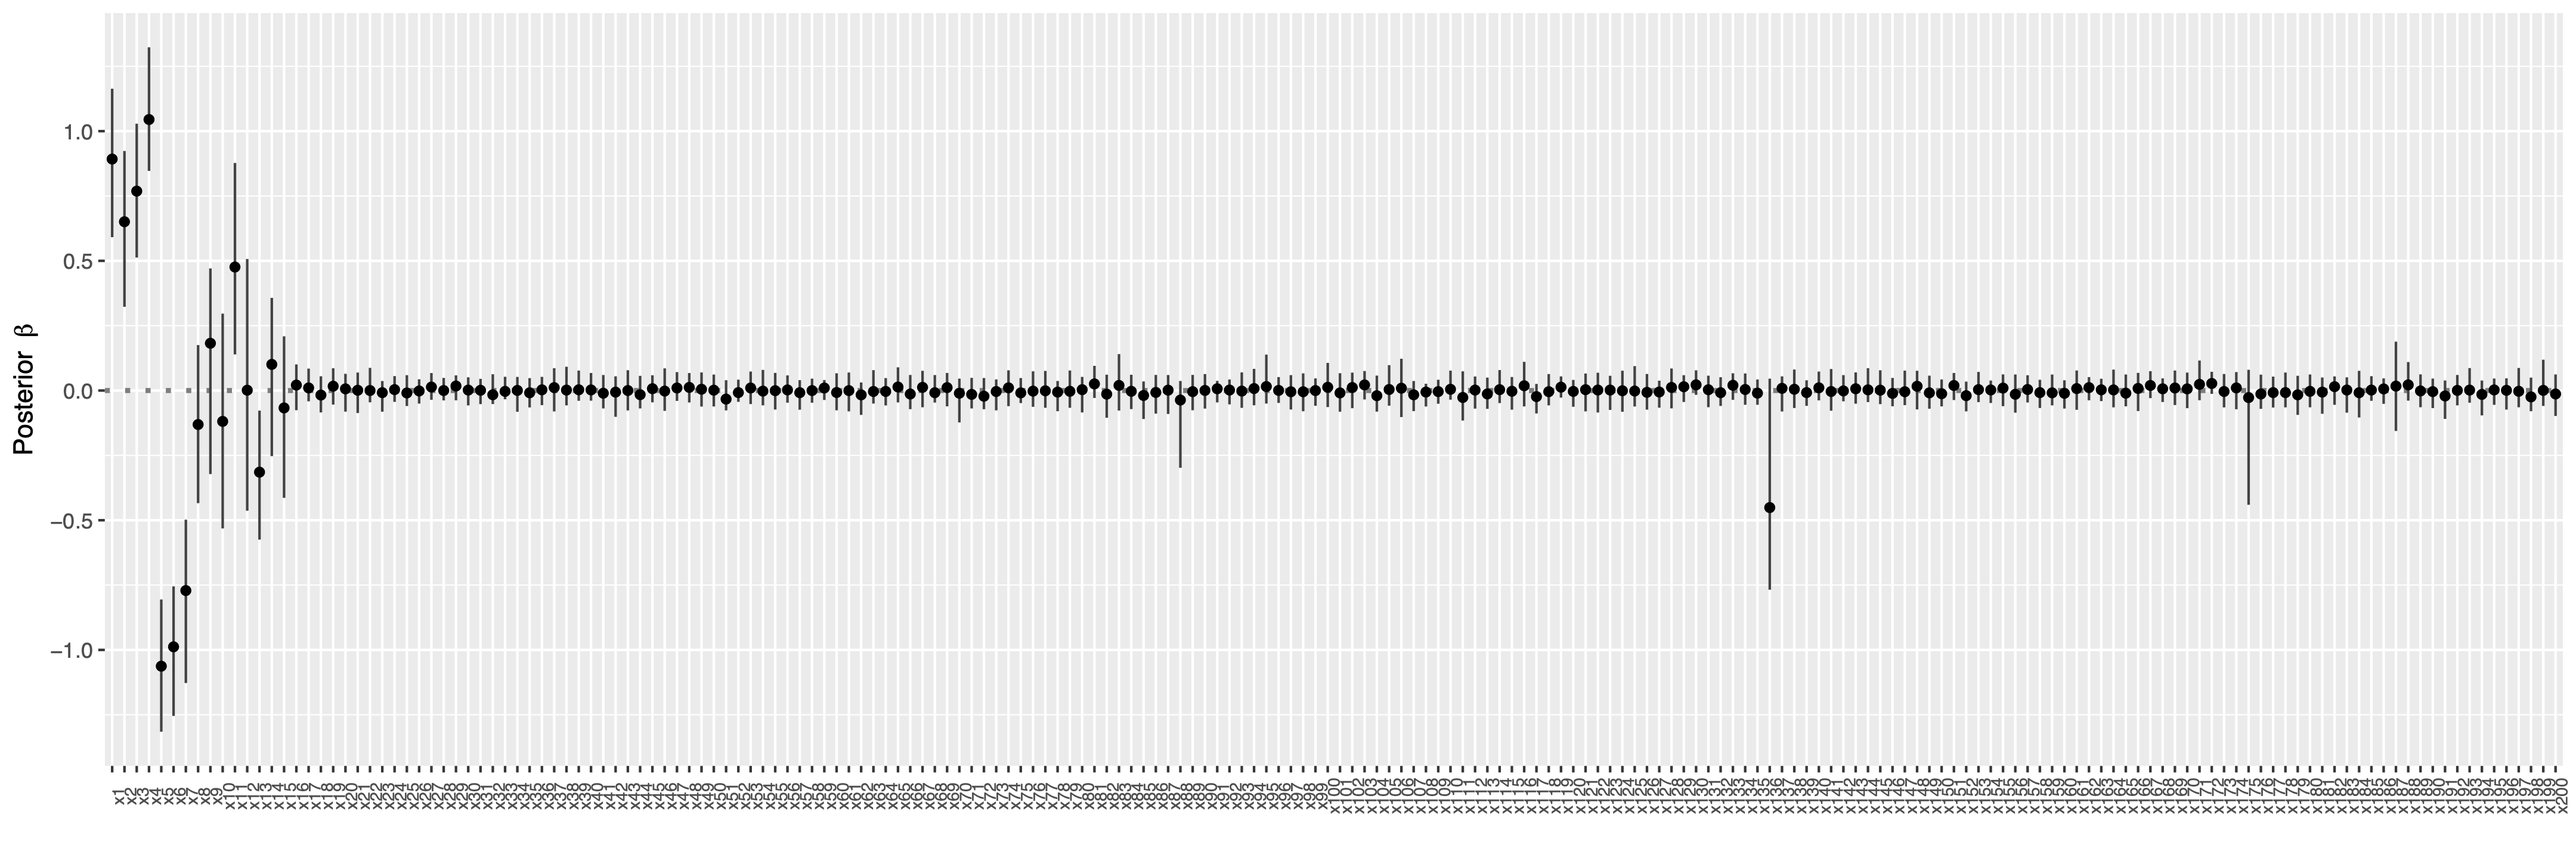
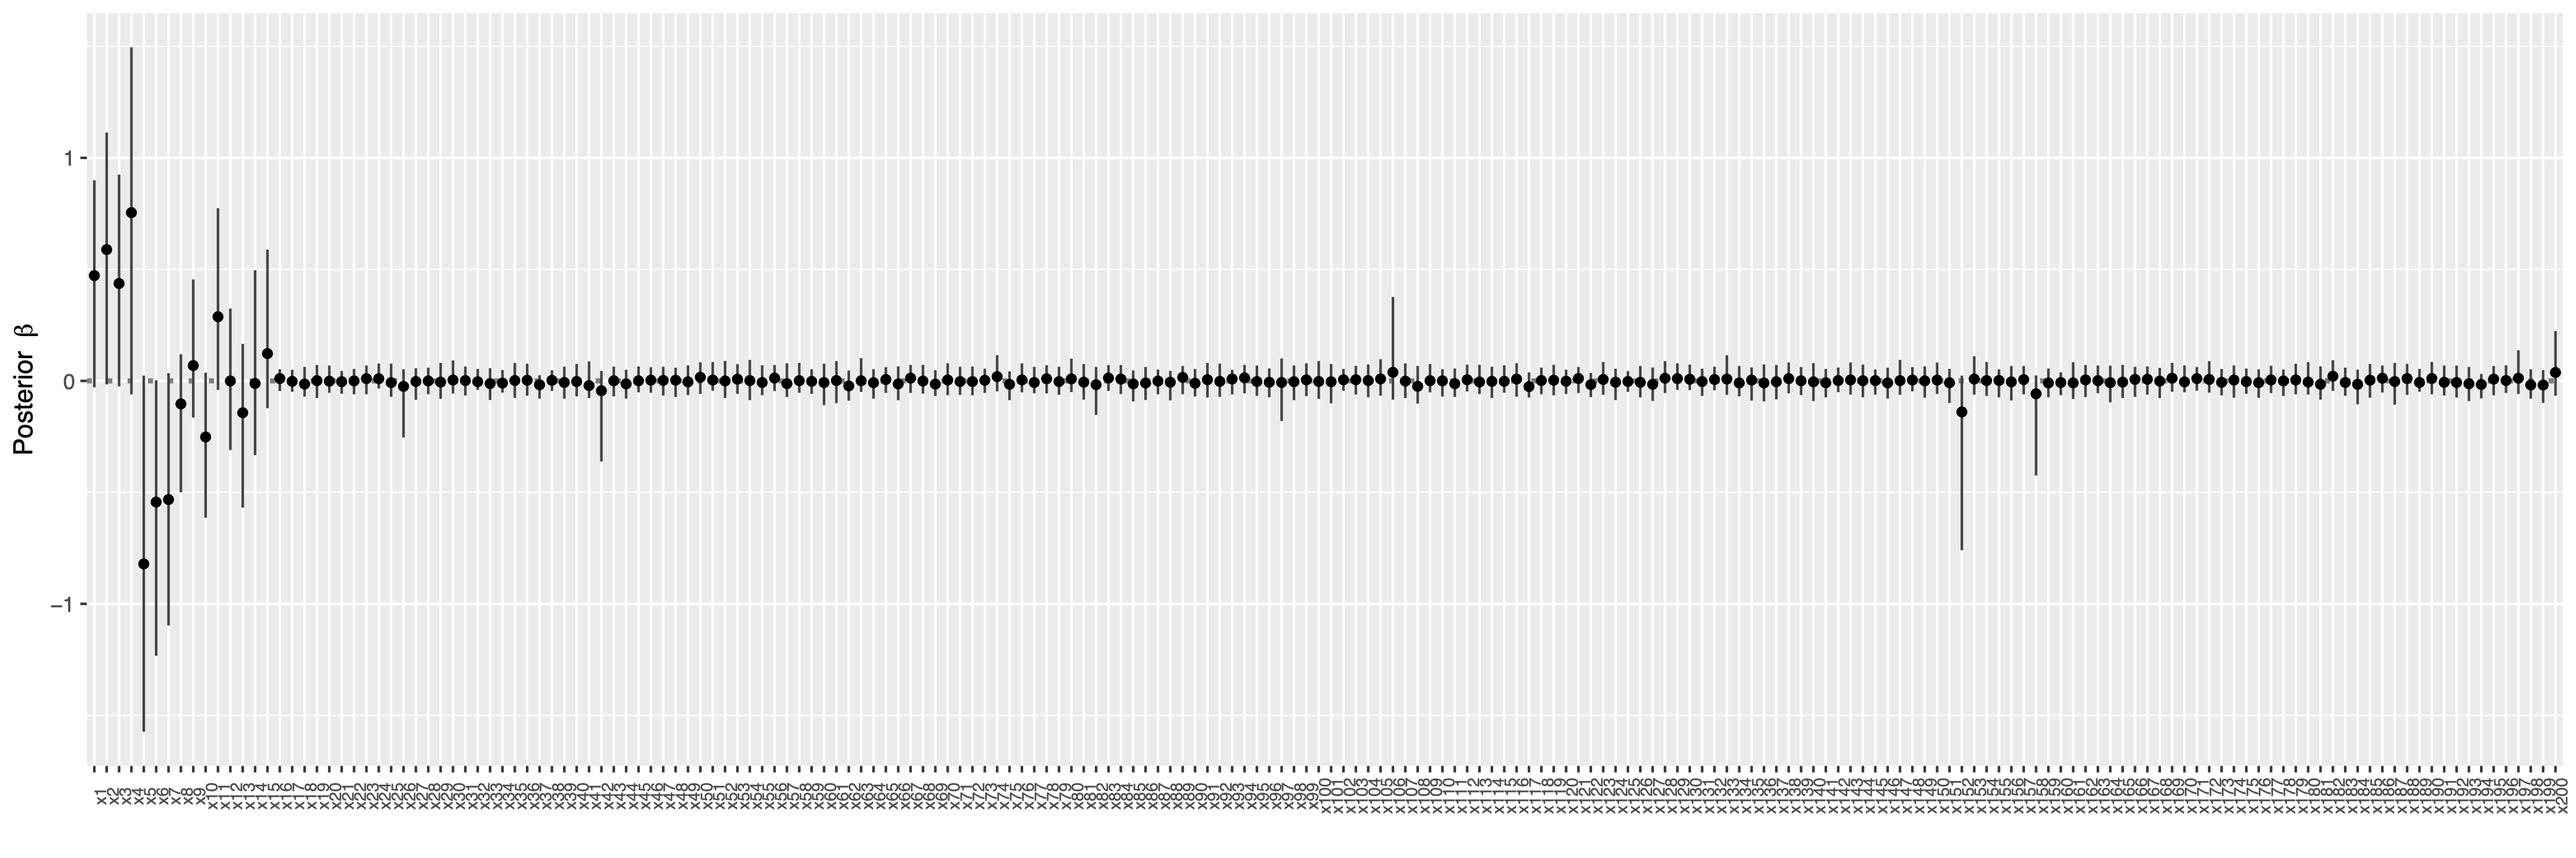
improve notations

Changed region(s): [[0.0312, 0.125, 1.0, 0.625], [0.0312, 0.875, 1.0, 0.9688], [0.0312, 0.6875, 0.0938, 0.7812]]

diff --git a/BayesSurv/README.md b/BayesSurv/README.md
@@ -18,11 +18,17 @@ remotes::install_github("tobiasoh/master_thesis/BayesSurv")
 ### Simulate data
 
 ```r
+library("survival")
+library("GGally")
+library("BayesSurv")
+
 # Load the example dataset
 data("simData", package = "BayesSurv")
+
 dataset = list("X" = simData[[1]]$X, 
                "t" = simData[[1]]$time,
                "di" = simData[[1]]$status)
+
 ```
 
 
@@ -40,8 +46,8 @@ priorParaPooled = list(
   #"eta0"   = eta0,                   # prior of baseline hazard
   #"kappa0" = kappa0,                 # prior of baseline hazard
   "c0"     = 2,                      # prior of baseline hazard
-  "tau"    = 0.0375,                 # sd for coefficient prior
-  "cb"     = 20,                     # sd for coefficient prior
+  "tau"    = 0.0375,                 # sd (spike) for coefficient prior
+  "cb"     = 20,                     # sd (slab) for coefficient prior
   "pi.ga"  = 0.02, #0.5, ga.pi,      # prior variable selection probability for standard Cox models
   "nu0"    = 0.05,                   # hyperparameter in graphical model
   "nu1"    = 5,                      # hyperparameter in graphical model
@@ -88,7 +94,7 @@ predict(fit, survObj.new = dataset)
 ```
 ```
     Null.model Bayesian.Cox
-IBS 0.09147208   0.03709157
+IBS 0.09147208   0.03797003
 ```
 
 ### Predict survival probabilities and cumulative hazards
@@ -99,18 +105,18 @@ The function `BayesSurv::predict()` can estimate the survival probabilities and 
 predict(fit, survObj.new = dataset, type = c("cumhazard", "survival"))
 ```
 ```
-       observation times cumhazard  survival
-    1:           1   3.3  2.60e-04  1.00e+00
-    2:           2   3.3  4.12e-01  6.62e-01
-    3:           3   3.3  3.41e-06  1.00e+00
-    4:           4   3.3  1.83e-02  9.82e-01
-    5:           5   3.3  4.61e-04  1.00e+00
-   ---                                      
- 9996:          96   9.5  8.53e+00  1.97e-04
- 9997:          97   9.5  5.46e+02 9.82e-238
- 9998:          98   9.5  1.64e+00  1.93e-01
- 9999:          99   9.5  2.92e+00  5.40e-02
-10000:         100   9.5  1.46e+01  4.37e-07
+       observation times cumhazard survival
+    1:           1   3.3  1.82e-04 1.00e+00
+    2:           2   3.3  2.42e-01 7.85e-01
+    3:           3   3.3  2.93e-06 1.00e+00
+    4:           4   3.3  5.40e-03 9.95e-01
+    5:           5   3.3  8.52e-04 9.99e-01
+   ---                                     
+ 9996:          96   9.5  1.38e+01 9.68e-07
+ 9997:          97   9.5  9.71e+01 6.94e-43
+ 9998:          98   9.5  1.35e+00 2.58e-01
+ 9999:          99   9.5  2.24e+00 1.06e-01
+10000:         100   9.5  8.62e+00 1.81e-04
 ```
 
 ### Run a Bayesian Cox model with subgroups

diff --git a/BayesSurv/NEWS.md b/BayesSurv/NEWS.md
@@ -1,9 +1,9 @@
 # TODO list
 
-* continue to help files
+* continue to improve help files
 * fix hard-coding parts
 * add more functions for the visualization of results
-* add graphical learning for the 'Pooled' model
+* add graphical learning for the 'Pooled' model?
 
 # BayesSurv 0.0-4
 
